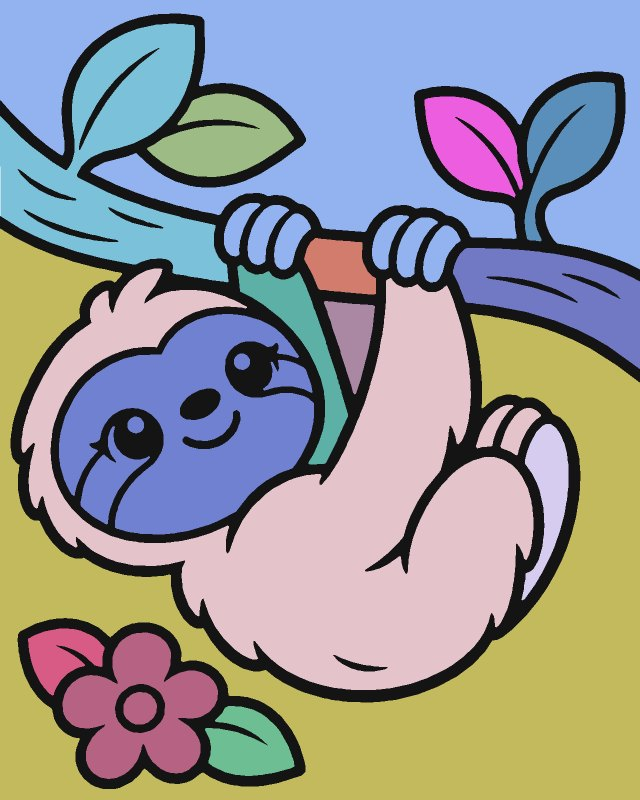
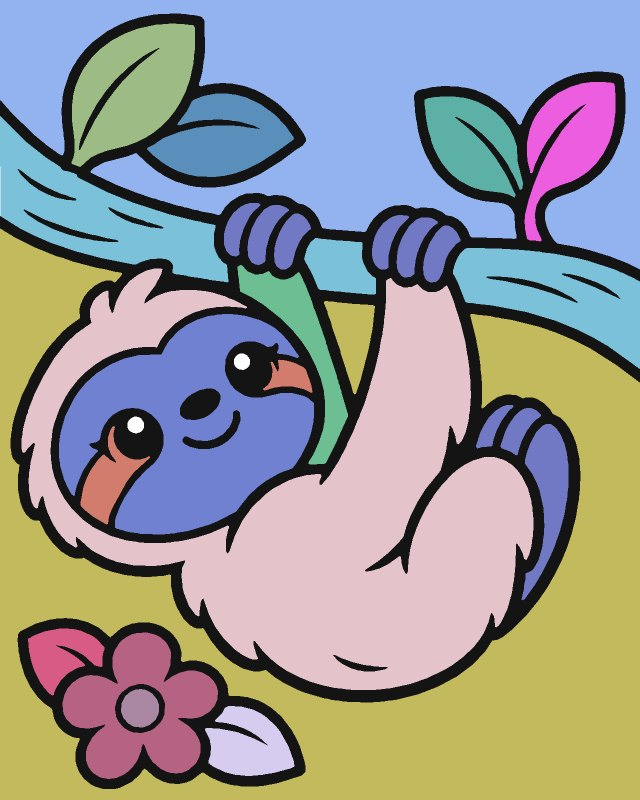
fix: corregir el relleno del perezoso en E07

diff --git a/tool/laminas/convertir.py b/tool/laminas/convertir.py
@@ -66,7 +66,7 @@ PAGINAS_PREVIAS = {'E01': ('rana-en-la-hoja', 2), 'M06': ('quetzal', 2),
 def pagina_de(art_id, tema_id):
     if art_id in PAGINAS_PREVIAS:
         return PAGINAS_PREVIAS[art_id]
-    return f'{art_id.lower()}-{tema_id}', 2 if art_id in {'E03', 'E04', 'E05', 'E06'} else 1
+    return f'{art_id.lower()}-{tema_id}', 2 if art_id in {'E03', 'E04', 'E05', 'E06', 'E07'} else 1
 
 
 def leer_gris(ruta):
@@ -246,19 +246,24 @@ def procesar(art_id, tema_id, fuente, original):
     # 5. Agrupación de zonas pequeñas.
     g = Grupos(n, areas.astype(np.int64).tolist(), diametros.tolist(), vecinos)
     diam_min = nivel['diametro'] * corto
+    # El centro circular de E07 tiene diámetro suficiente para el dedo,
+    # aunque su área sea menor que la recomendada para otras formas.
+    centro_flor = int(zonas[1415, 280]) if art_id == 'E07' else 0
 
     def pequeno(a):
-        return g.diam[a] < diam_min or g.area[a] < area_min
+        return g.diam[a] < diam_min or (a != centro_flor and g.area[a] < area_min)
 
     # Brillos: detalles blancos rodeados de tinta maciza (el reflejo de un
     # ojo). No se agrupan con nadie: quedarían del color de otra zona. Siguen
     # siendo regiones propias, exentas del mínimo táctil.
     brillos = [a for a in list(g.area)
                if pequeno(a) and macizo[a] > 2.0]
-    if art_id == 'E06':
-        reflejo = int(zonas[256, 689])
+    sondas_reflejos = {'E06': ((689, 256),),
+                      'E07': ((483, 723), (271, 848))}
+    for x, y in sondas_reflejos.get(art_id, ()):
+        reflejo = int(zonas[y, x])
         if reflejo == 0 or not pequeno(reflejo):
-            raise ValueError('E06: la sonda debe quedar dentro del reflejo del ojo')
+            raise ValueError(f'{art_id}: la sonda debe quedar dentro del reflejo del ojo')
         if reflejo not in brillos:
             brillos.append(reflejo)
     for a in brillos:
@@ -284,6 +289,15 @@ def procesar(art_id, tema_id, fuente, original):
                  '3 plumas largas de la cola agrupadas en una región propia'),
                 (((693, 665), (729, 783), (582, 796), (849, 282)),
                  'pico y patas agrupados con el pecho por su tamaño')],
+        'E07': [(((90, 418), (672, 531), (1230, 645)),
+                 '3 tramos de la rama agrupados en una región propia'),
+                (((1102, 1421), (704, 648)),
+                 'hueco entre los brazos agrupado con el fondo inferior'),
+                (((1092, 916), (471, 451), (522, 463), (589, 457), (767, 475),
+                  (822, 481), (892, 475), (971, 876), (1026, 871)),
+                 '9 garras agrupadas en una región propia'),
+                (((211, 956), (579, 748)),
+                 '2 manchas de los ojos agrupadas en una región propia')],
     }
     agrupadas_a_mano = 0
     for puntos, nota in grupos_manuales.get(art_id, ()):
@@ -464,7 +478,7 @@ def procesar(art_id, tema_id, fuente, original):
     rng = np.random.default_rng(7)
     paleta = rng.integers(90, 245, size=(len(regiones) + 1, 3), dtype=np.uint8)
     paleta[0] = 255
-    if art_id == 'E06':
+    if art_id in sondas_reflejos:
         for brillo in brillos:
             paleta[numero[brillo]] = 255
     previa = paleta[lienzo]

diff --git a/tool/laminas/manifiesto.py b/tool/laminas/manifiesto.py
@@ -90,6 +90,7 @@ PREVIAS = {
     'e04-tucan': {'1': 'pages/e04-tucan-v1.json'},
     'e05-flor-tropical': {'1': 'pages/e05-flor-tropical-v1.json'},
     'e06-quetzal': {'1': 'pages/e06-quetzal-v1.json'},
+    'e07-perezoso': {'1': 'pages/e07-perezoso-v1.json'},
     'rana-en-la-hoja': {'1': 'pages/rana-en-la-hoja-v1.json'},
     'quetzal': {'1': 'pages/quetzal-v1.json'},
     'sendero': {'1': 'pages/sendero-v1.json'},

diff --git a/docs/laminas/REGISTRO_CAMBIOS.md b/docs/laminas/REGISTRO_CAMBIOS.md
@@ -52,12 +52,13 @@ Todas las láminas se normalizan a 1600 px de lado mayor y se vectorizan; debajo
 - Fuente corregida: `tool/laminas/fuentes_corregidas/E06.png`. Se redibujaron el perfil y el pico, los bordes de la rama junto al marco y la unión de la hoja derecha. El ojo queda separado de la ceja y su reflejo tiene una región propia.
 - Los cuatro tramos de la rama y las tres plumas largas de la cola forman dos regiones. El pico y las patas comparten color con el pecho por su tamaño.
 
-## E07 · `e07-perezoso` (revisión 1)
+## E07 · `e07-perezoso` (revisión 2)
 
 - Original: `Imagen de ChatGPT 12 nov 2026, 23_03_53-1.webp` → `E07_perezoso.webp` (1122 × 1402 px), SHA-256 `ccd7c5fbc468ad44…`
+- Fuente corregida: `tool/laminas/fuentes_corregidas/E07.png`. Se cerró la base de la hoja superior izquierda y se ajustaron la mancha izquierda de la cara y el centro de la flor para que admitan el toque.
 - Lienzo: 1280 × 1600 (vertical); trazo 20.4 px; tinta que toca el marco: 1.9 %
-- huecos de trazo cerrados (565 px)
-- 13 zonas pequeñas agrupadas con su vecina
+- Los tramos de la rama comparten color, al igual que las nueve garras y las dos manchas de la cara en sus respectivas regiones. Los reflejos de los ojos y el centro de la flor tienen regiones propias.
+- El hueco entre los brazos se pinta con el fondo inferior.
 
 ## E08 · `e08-mono` (revisión 1)
 
